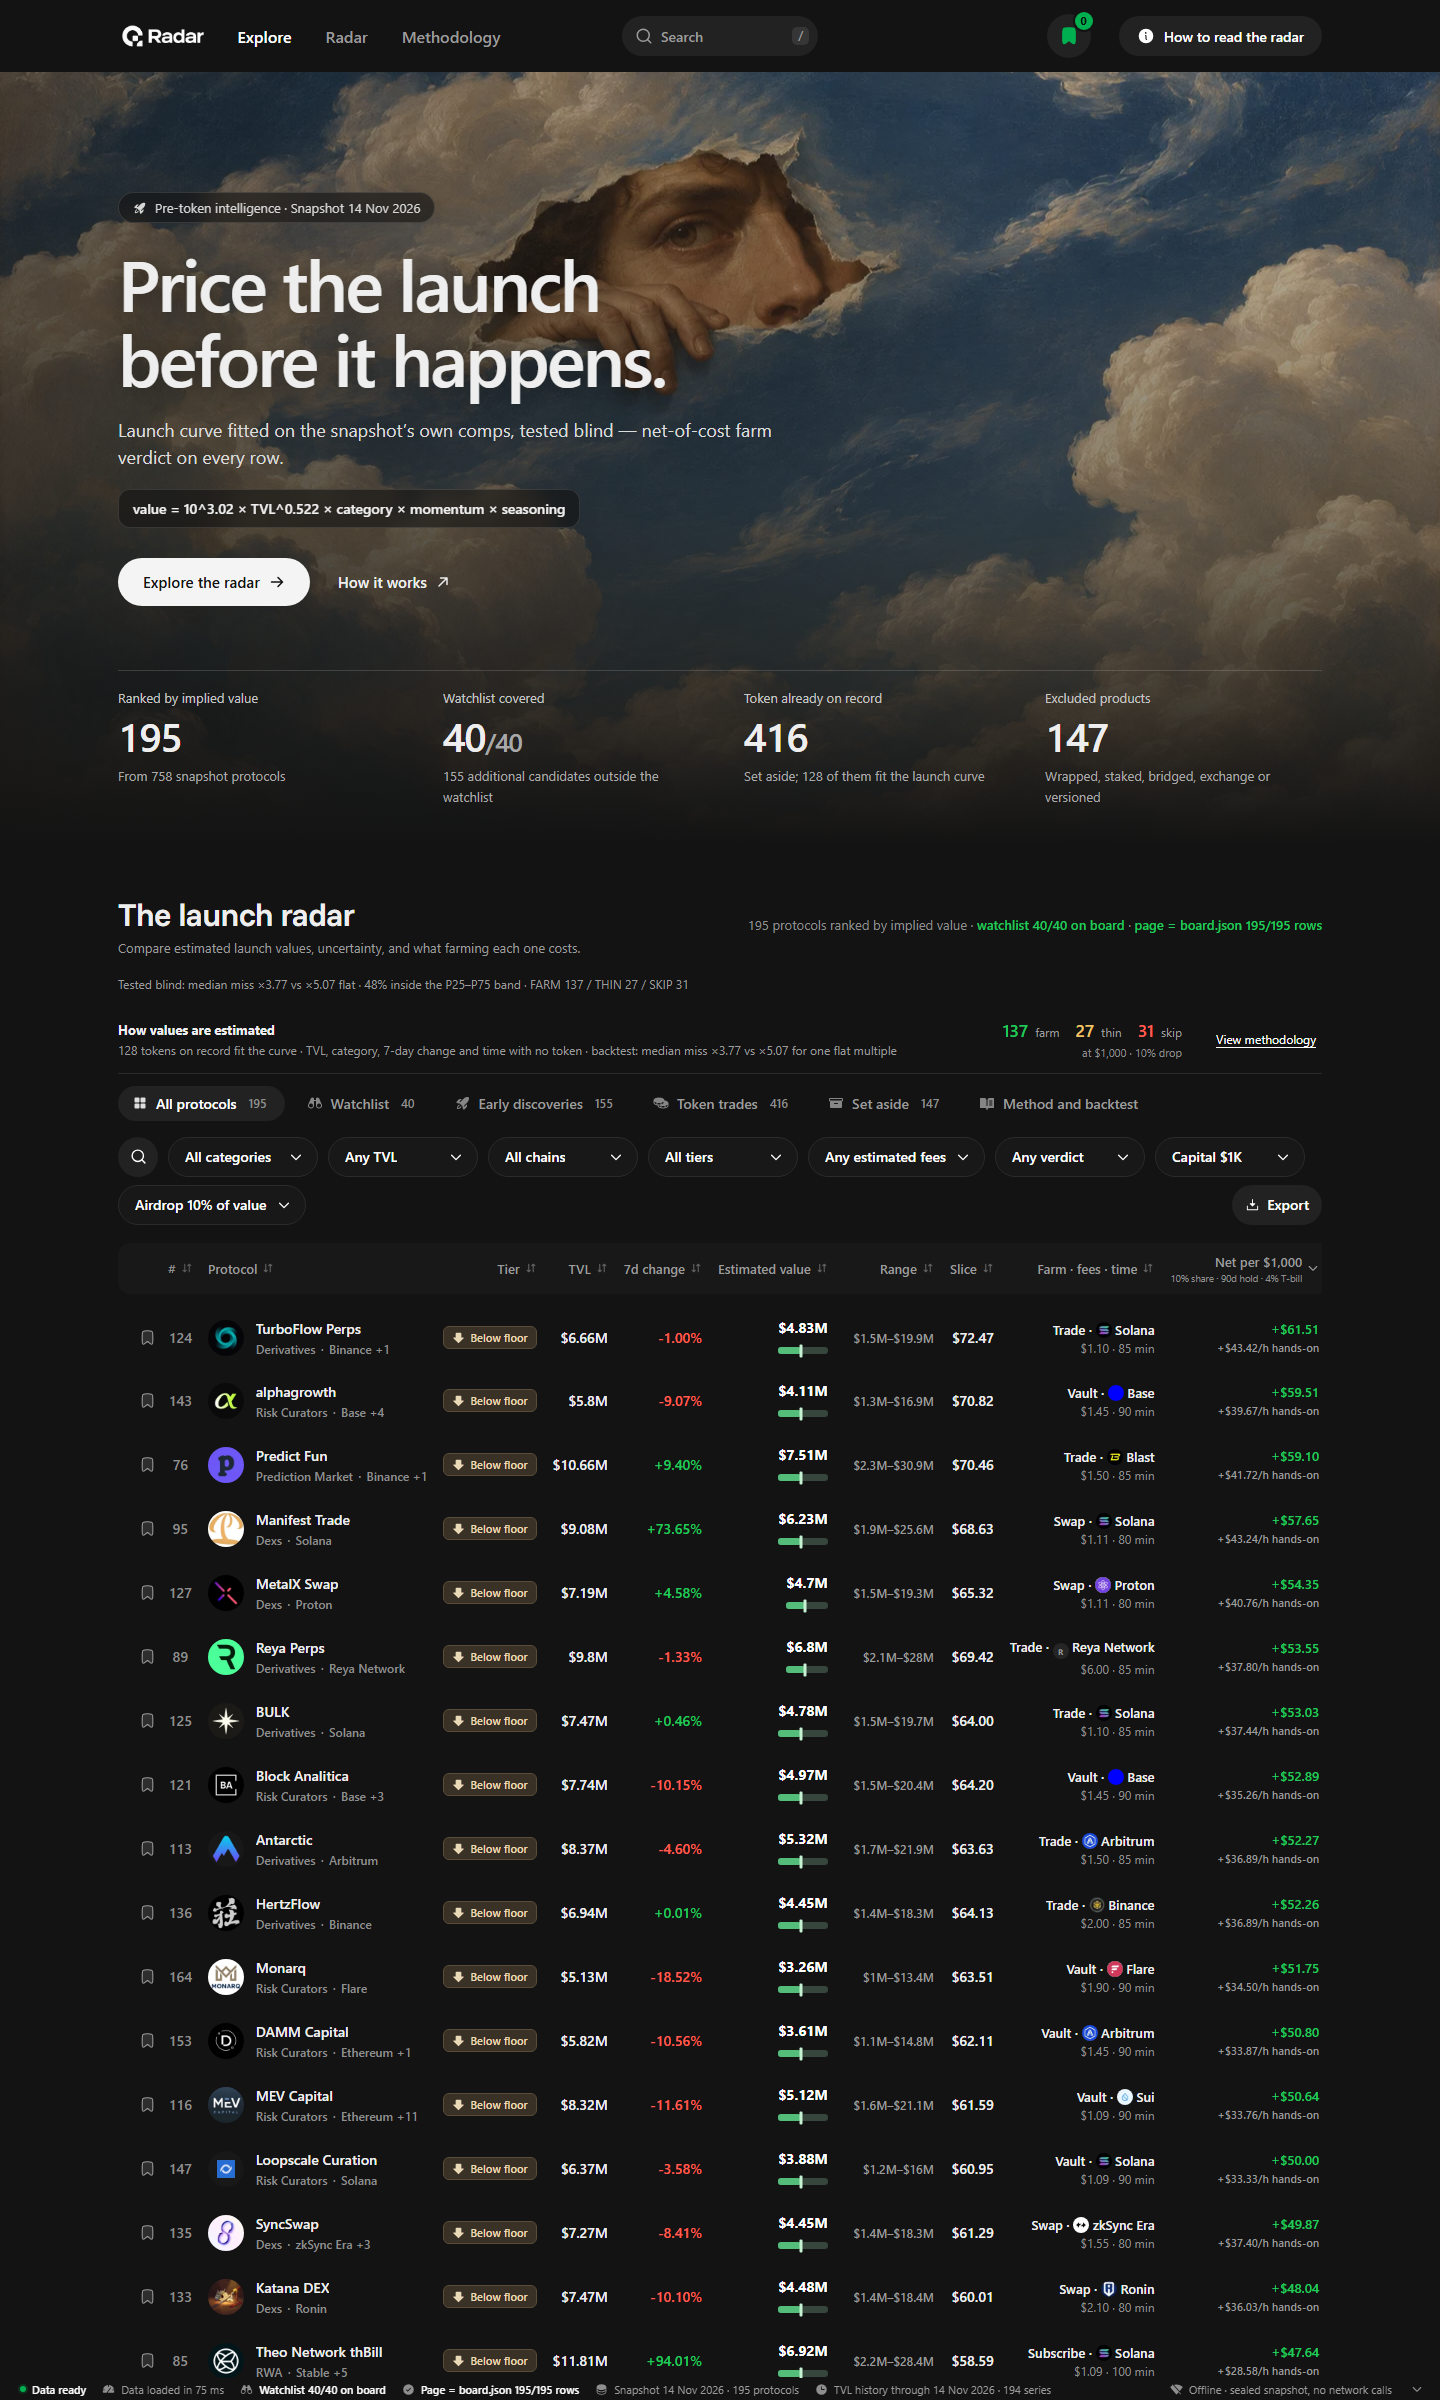
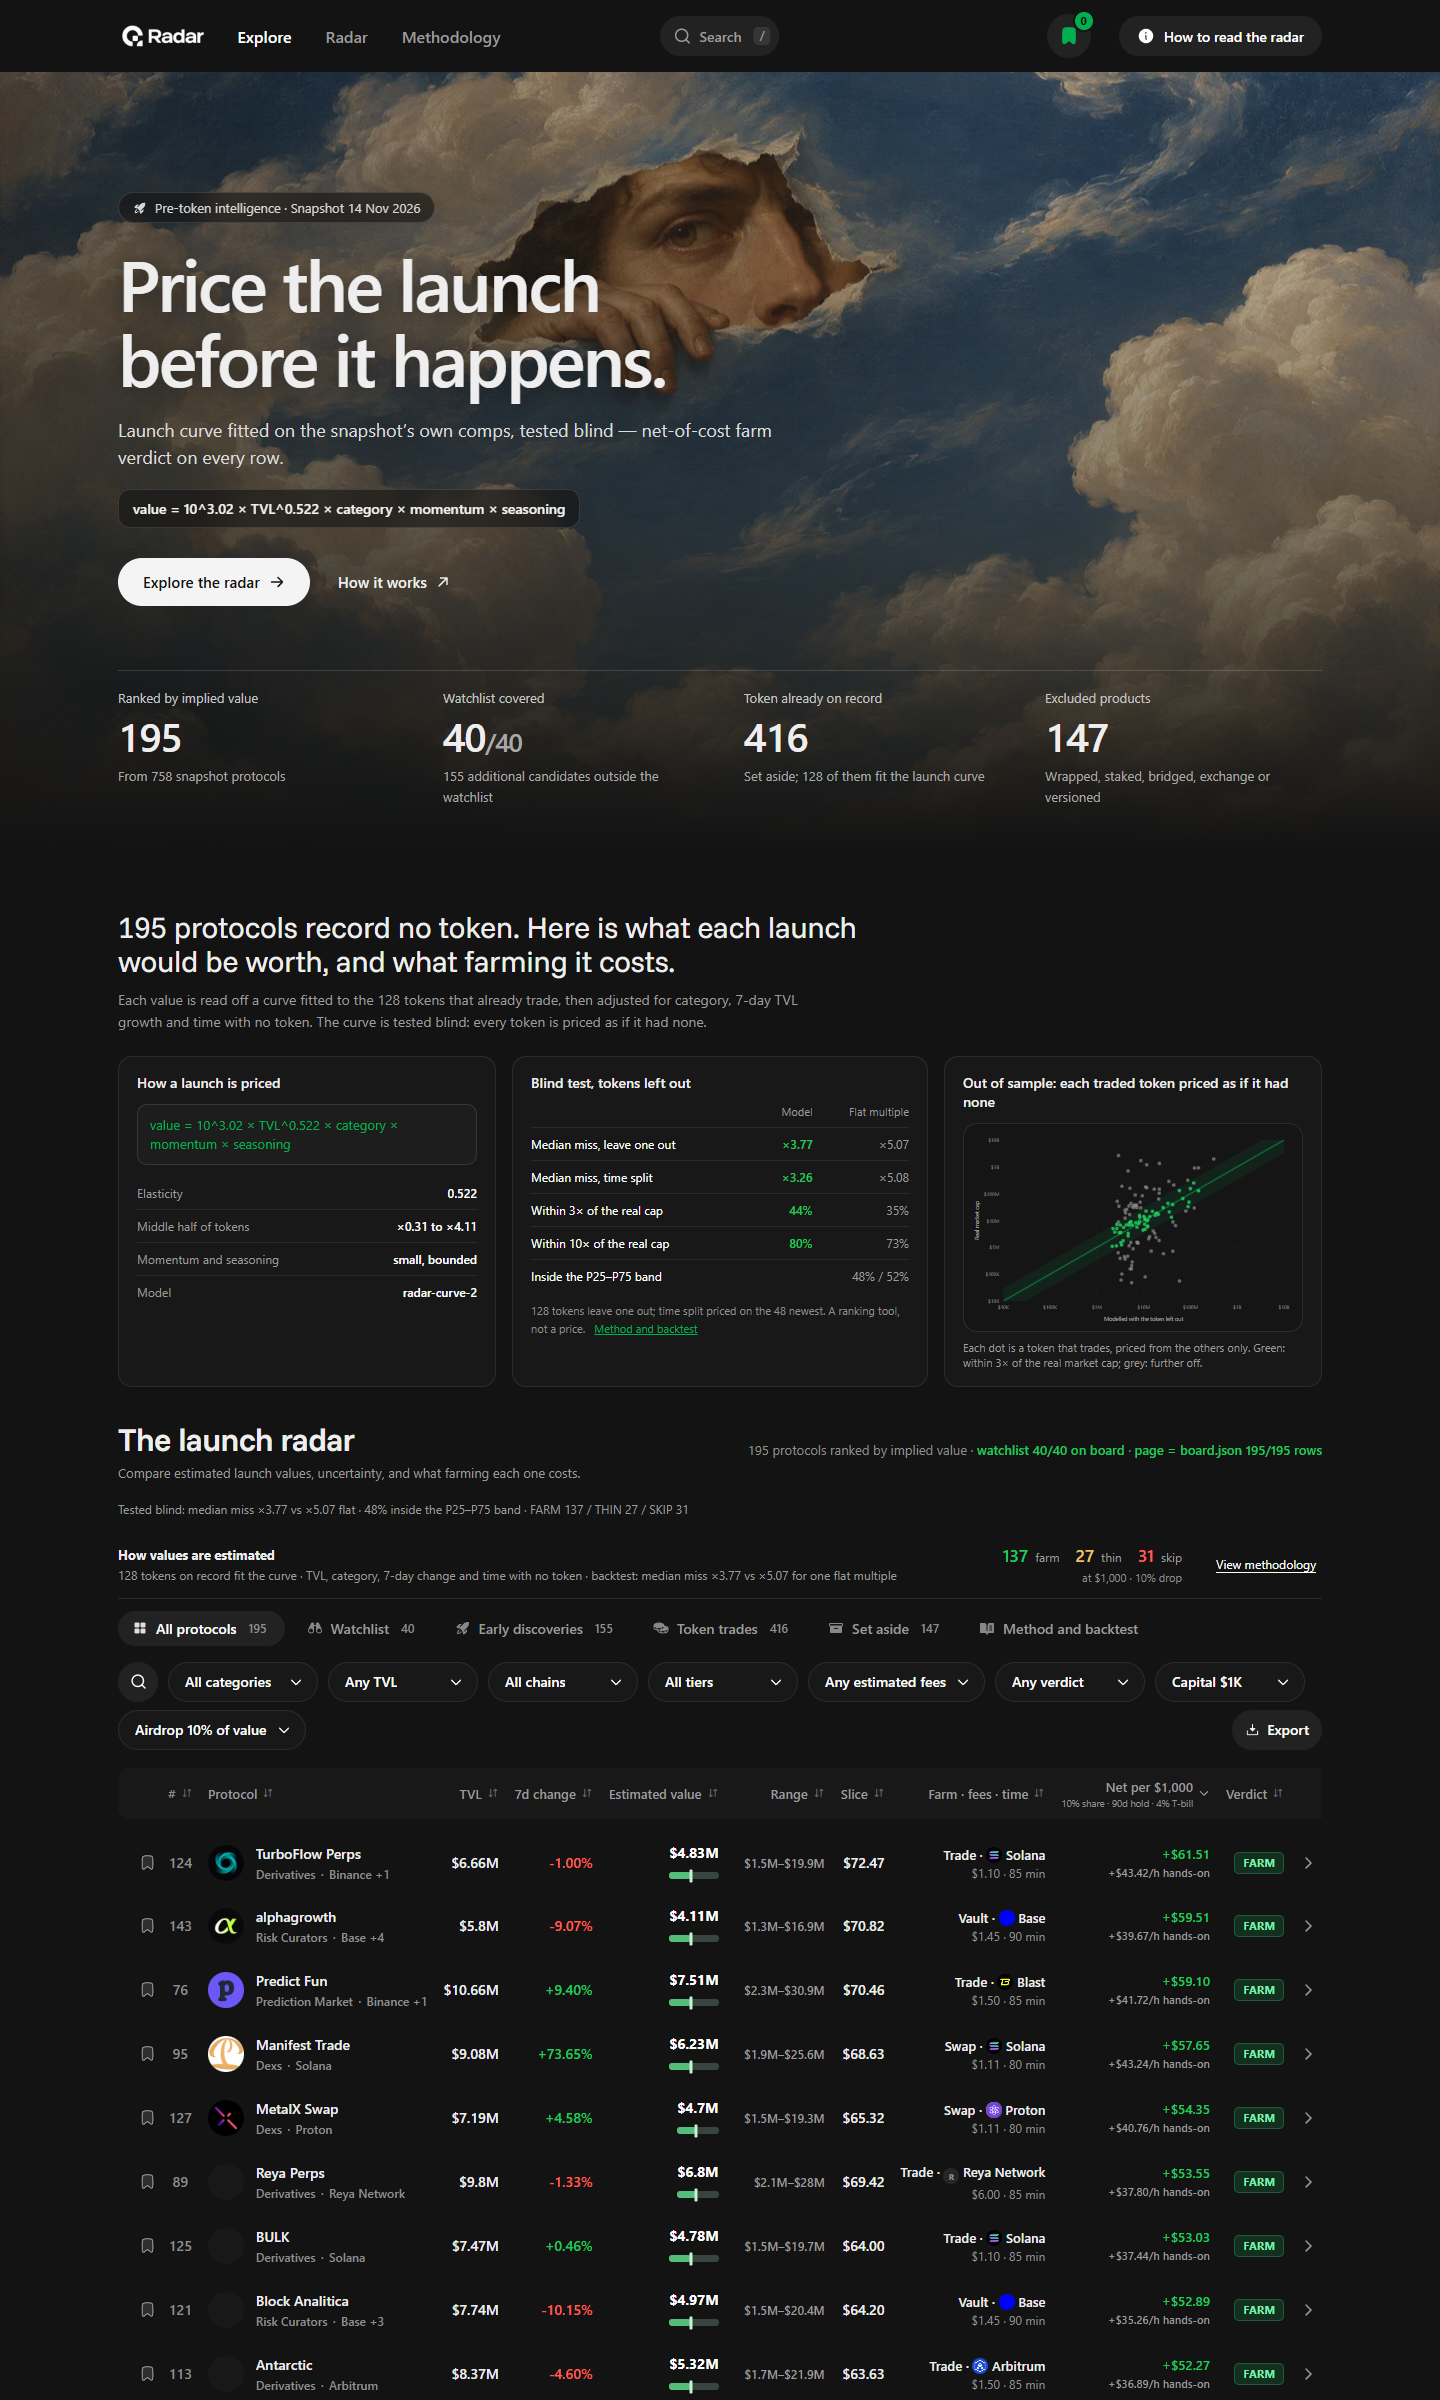
feat: add ProofBand component with styling for evidence display

diff --git a/src/features/radar/ProofBand.jsx b/src/features/radar/ProofBand.jsx
@@ -1,0 +1,105 @@
+import React from 'react';
+import { BacktestChart } from '../../components/charts/BacktestChart';
+
+const pct = (n) => Math.round(n * 100) + '%';
+
+/**
+ * The evidence, up front: the formula, how it did on tokens it never saw, and the out-of-sample
+ * scatter. Every number comes from the same backtest the Methodology page shows.
+ */
+export function ProofBand({ data, onMethodology }) {
+  const { curve, model, backtest } = data;
+  if (!backtest) return null;
+  const loo = backtest.leave_one_out;
+  const split = backtest.time_split;
+  const rows = [
+    ['Median miss, leave one out', `×${loo.model.median_miss}`, `×${loo.flat.median_miss}`],
+    ['Median miss, time split', `×${split.model.median_miss}`, `×${split.flat.median_miss}`],
+    ['Within 3× of the real cap', pct(loo.model.within_3x), pct(loo.flat.within_3x)],
+    ['Within 10× of the real cap', pct(loo.model.within_10x), pct(loo.flat.within_10x)],
+  ];
+  return (
+    <section className="proof-band" aria-labelledby="proof-title">
+      <header className="proof-head">
+        <h2 id="proof-title">
+          {data.rows.length} protocols record no token. Here is what each launch would be worth,
+          and what farming it costs.
+        </h2>
+        <p>
+          Each value is read off a curve fitted to the {curve.comparables} tokens that already
+          trade, then adjusted for category, 7-day TVL growth and time with no token. The curve
+          is tested blind: every token is priced as if it had none.
+        </p>
+      </header>
+      <div className="proof-grid">
+        <article className="proof-card">
+          <h3>How a launch is priced</h3>
+          <p className="proof-formula">
+            value = 10^{curve.intercept.toFixed(2)} × TVL^{curve.elasticity.toFixed(3)} × category
+            × momentum × seasoning
+          </p>
+          <ul className="proof-list">
+            <li>
+              <span>Elasticity</span>
+              <b>{curve.elasticity.toFixed(3)}</b>
+            </li>
+            <li>
+              <span>Middle half of tokens</span>
+              <b>
+                ×{curve.low_factor.toFixed(2)} to ×{curve.high_factor.toFixed(2)}
+              </b>
+            </li>
+            <li>
+              <span>Momentum and seasoning</span>
+              <b>small, bounded</b>
+            </li>
+            <li>
+              <span>Model</span>
+              <b>{model.version}</b>
+            </li>
+          </ul>
+        </article>
+        <article className="proof-card">
+          <h3>Blind test, tokens left out</h3>
+          <table className="proof-table">
+            <thead>
+              <tr>
+                <th scope="col">
+                  <span className="sr-only">Measure</span>
+                </th>
+                <th scope="col">Model</th>
+                <th scope="col">Flat multiple</th>
+              </tr>
+            </thead>
+            <tbody>
+              {rows.map(([label, a, b]) => (
+                <tr key={label}>
+                  <th scope="row">{label}</th>
+                  <td className="win">{a}</td>
+                  <td>{b}</td>
+                </tr>
+              ))}
+              <tr>
+                <th scope="row">Inside the P25–P75 band</th>
+                <td colSpan="2">
+                  {pct(loo.model.inside_band)} / {pct(split.model.inside_band)}
+                </td>
+              </tr>
+            </tbody>
+          </table>
+          <p className="proof-note">
+            {loo.n} tokens leave one out; time split priced on the {split.n} newest. A ranking tool,
+            not a price.{' '}
+            <button type="button" onClick={onMethodology}>
+              Method and backtest
+            </button>
+          </p>
+        </article>
+        <article className="proof-card proof-chart">
+          <h3>Out of sample: each traded token priced as if it had none</h3>
+          <BacktestChart points={backtest.points} />
+        </article>
+      </div>
+    </section>
+  );
+}

diff --git a/src/styles/proof.css b/src/styles/proof.css
@@ -1,0 +1,123 @@
+/* Proof band: the formula, the blind test and the out-of-sample chart on the first screen */
+.proof-band {
+  padding: 40px 0 8px;
+}
+.proof-head h2 {
+  font-family: var(--serif);
+  font-size: 30px;
+  font-weight: 400;
+  letter-spacing: -0.3px;
+  line-height: 1.15;
+  max-width: 760px;
+}
+.proof-head p {
+  font-size: 14px;
+  line-height: 1.6;
+  color: var(--muted);
+  max-width: 720px;
+  margin-top: 10px;
+}
+.proof-grid {
+  display: grid;
+  grid-template-columns: 1fr 1.1fr 1fr;
+  gap: 16px;
+  margin-top: 22px;
+  align-items: stretch;
+}
+.proof-card {
+  background: var(--surface);
+  border: 1px solid var(--line);
+  border-radius: 14px;
+  padding: 16px 18px;
+  min-width: 0;
+}
+.proof-card h3 {
+  font-size: 14px;
+  font-weight: 600;
+  margin-bottom: 12px;
+}
+.proof-formula {
+  padding: 10px 12px;
+  font-size: 13px;
+  line-height: 1.5;
+  color: var(--accent);
+  background: #1d1d1d;
+  border: 1px solid #363636;
+  border-radius: 10px;
+  overflow-wrap: anywhere;
+}
+.proof-list {
+  list-style: none;
+  margin: 12px 0 0;
+  padding: 0;
+}
+.proof-list li {
+  display: flex;
+  justify-content: space-between;
+  gap: 12px;
+  padding: 8px 0;
+  font-size: 12px;
+  color: var(--muted);
+  border-bottom: 1px solid var(--line);
+}
+.proof-list li:last-child {
+  border-bottom: 0;
+}
+.proof-list b {
+  color: var(--text);
+  font-weight: 500;
+  font-variant-numeric: tabular-nums;
+}
+.proof-table {
+  width: 100%;
+  border-collapse: collapse;
+  font-size: 12px;
+  font-variant-numeric: tabular-nums;
+}
+.proof-table th,
+.proof-table td {
+  padding: 8px 0;
+  text-align: right;
+  border-bottom: 1px solid var(--line);
+  color: var(--muted);
+  font-weight: 400;
+}
+.proof-table thead th {
+  font-size: 11px;
+  padding-top: 0;
+}
+.proof-table tbody th {
+  text-align: left;
+  color: var(--text);
+}
+.proof-table td.win {
+  color: var(--positive, #21c95e);
+  font-weight: 600;
+}
+.proof-table tbody tr:last-child > * {
+  border-bottom: 0;
+}
+.proof-note {
+  margin-top: 10px;
+  font-size: 11px;
+  line-height: 1.55;
+  color: var(--quiet);
+}
+.proof-note button {
+  color: var(--accent);
+  text-decoration: underline;
+}
+.proof-chart .backtest-chart {
+  margin: 0;
+}
+.proof-chart .backtest-chart figcaption {
+  font-size: 11px;
+}
+@media (max-width: 1000px) {
+  .proof-grid {
+    grid-template-columns: 1fr;
+  }
+  .proof-head h2 {
+    font-size: 24px;
+  }
+}

diff --git a/src/app/App.jsx b/src/app/App.jsx
@@ -5,6 +5,7 @@ import { Footer } from '../layout/Footer';
 import { StatusBar } from '../layout/StatusBar';
 import { MobileNav } from '../layout/MobileNav';
 import { Hero } from '../features/radar/Hero';
+import { ProofBand } from '../features/radar/ProofBand';
 import { RadarSection } from '../features/radar/RadarSection';
 import { useRadarFilters } from '../features/radar/useRadarFilters';
 import { ProtocolPage } from '../features/protocol/ProtocolPage';
@@ -187,6 +188,7 @@ export function App({ data }) {
                   Bookmarks are saved for this session only. Browser storage is unavailable.
                 </p>
               )}
+              <ProofBand data={data} onMethodology={openMethodology} />
               <RadarSection
                 data={data}
                 filters={filters}

diff --git a/src/styles/index.js b/src/styles/index.js
@@ -2,6 +2,7 @@ import './tokens.css';
 import './layout.css';
 import './radar.css';
 import './dialogs.css';
+import './proof.css';
 import './charts.css';
 import './protocol-detail.css';
 import './clean.css';
